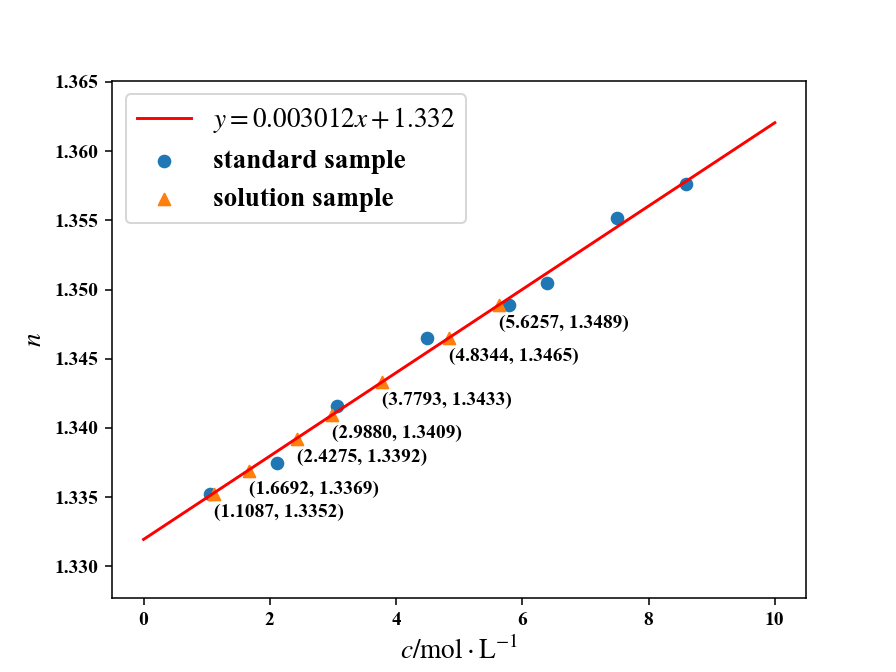
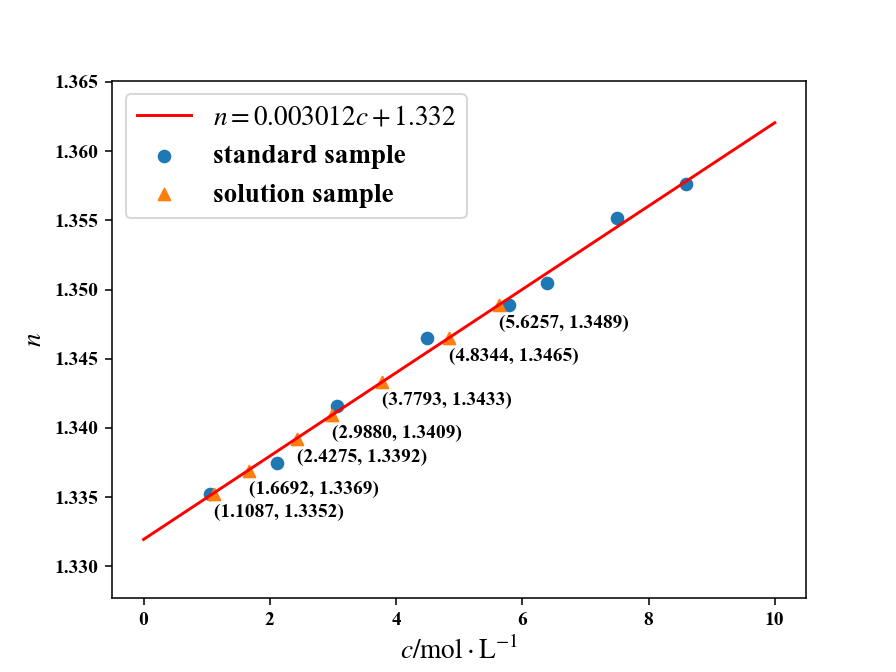
:pencil2: correct wrong quotions

diff --git a/Exp2.py b/Exp2.py
@@ -42,7 +42,7 @@ plt.xticks(fontsize=10)
 plt.yticks(fontsize=10)
 plt.xlabel(r'$T^{-1}\mathrm{/K^{-1}}$', fontsize=14)
 plt.ylabel(r'$\ln p-\ln 10^3$', fontsize=14)
-plt.plot(_X, _Y, c='red', label=r'$y='+'%.4f'%(k)+'x'+'+%.4f'%(b)+'$')
+plt.plot(_X, _Y, c='red', label=r'$\ln{\frac{p}{10^3}}='+'%.4f'%(k)+r'\frac{1}{T}'+'+%.4f'%(b)+'$')
 plt.scatter(t, ln_p, label='measuring data')
 plt.axhline(y=math.log(101.325), ls="--", linewidth=1)
 plt.scatter(x=(math.log(101.325)-b)/k,y=math.log(101.325),marker='x', c='purple')

diff --git a/Exp7_1.py b/Exp7_1.py
@@ -13,7 +13,7 @@ plt.xlabel('$c\mathrm{/mol\cdot L^{-1}}$', fontsize=14)
 plt.ylabel('$\sigma \mathrm{/N\cdot m^{-1}}$', fontsize=14)
 
 plt.scatter(c, sigma)
-plt.plot(line_x, fit(line_x), c='r', label='$y=0.00043x^{2}-0.006305x+0.05587$')
+plt.plot(line_x, fit(line_x), c='r', label='$\sigma=0.00043c^{2}-0.006305c+0.05587$')
 for i in range(len(lquin)):
     plt.annotate('(%.2f, %.4f)'%(c[i], sigma[i]), xy=(c[i]-1.1, sigma[i]-0.0013))
     print("f'(%f) = "%c[i], df(c[i]))

diff --git a/Exp7_2.py b/Exp7_2.py
@@ -15,6 +15,6 @@ ax.yaxis.get_major_formatter().set_powerlimits((0,1))
 plt.xlabel(r'$c\mathrm{/mol\cdot L^{-1}}$', fontsize=14)
 plt.ylabel(r'$\frac{c}{\Gamma}\mathrm{/10^{-3}m^{-1}}$', fontsize=14)
 plt.scatter(c, c/gama)
-plt.plot(line_x, fit(line_x), c='r', label='$y=251300x+34190$')
+plt.plot(line_x, fit(line_x), c='r', label=r'$\frac{c}{\Gamma}=251300c+34190$')
 plt.legend(fontsize=14)
 plt.show()

diff --git a/Exp7_0.py b/Exp7_0.py
@@ -17,7 +17,7 @@ plt.scatter(c, lquin, marker='^', label='solution sample')
 for i in range(len(lquin)):
     plt.annotate('(%.4f, %.4f)'%(c[i], lquin[i]), xy=(c[i], lquin[i]-0.0016))
 
-plt.plot(line_x, fit(line_x), c='r', label='$y=0.003012x+1.332$')
+plt.plot(line_x, fit(line_x), c='r', label='$n=0.003012c+1.332$')
 
 plt.legend(fontsize=14)
 plt.show()
